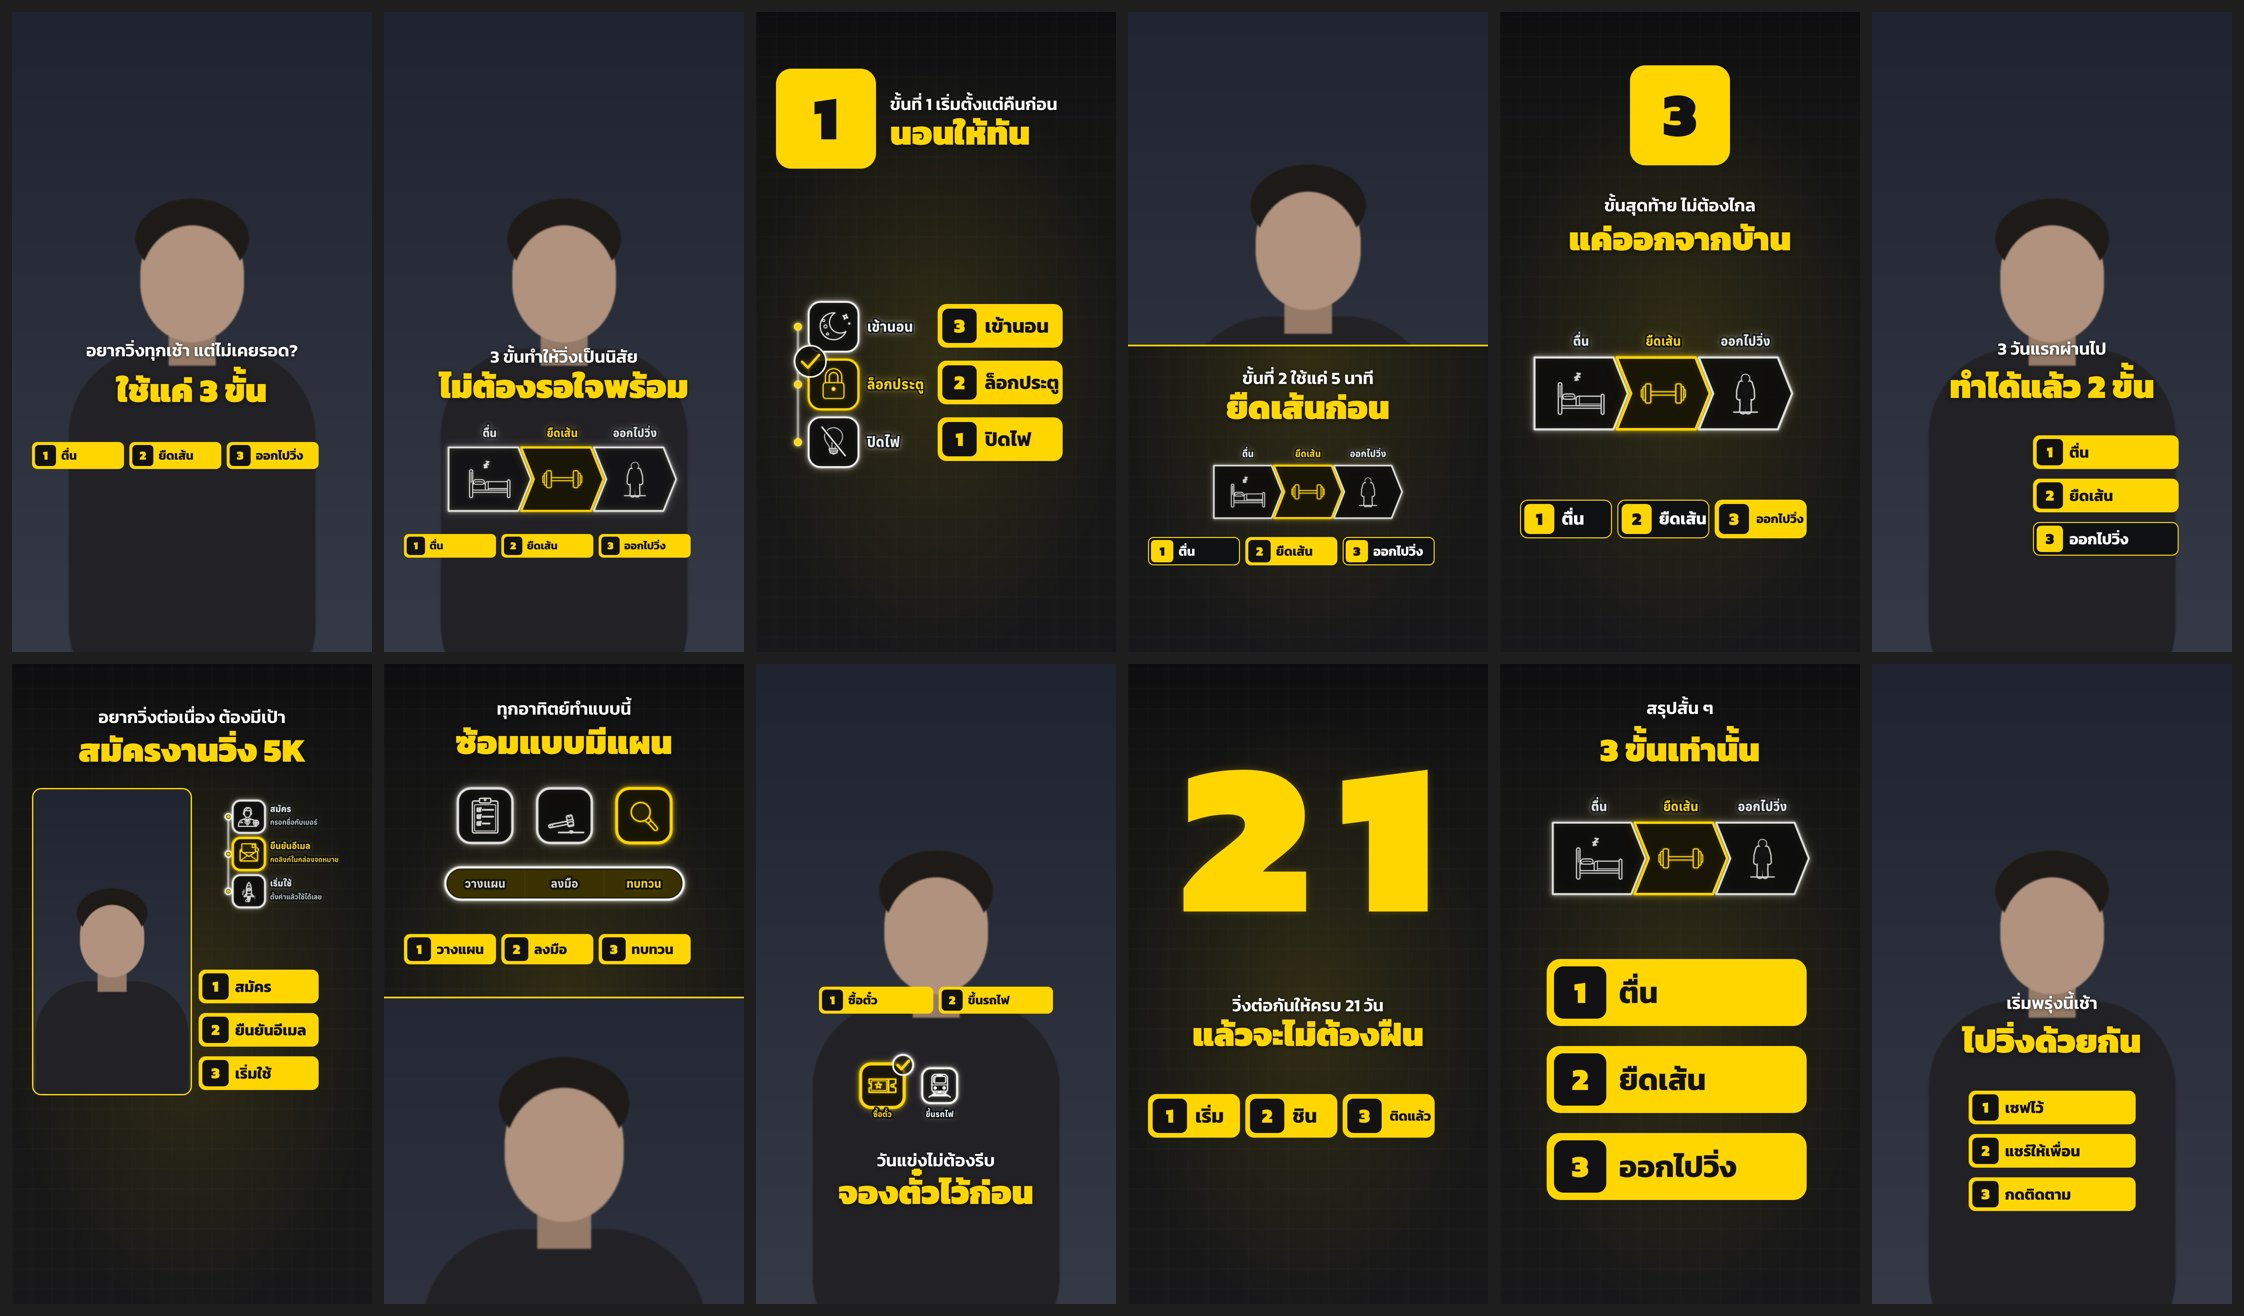
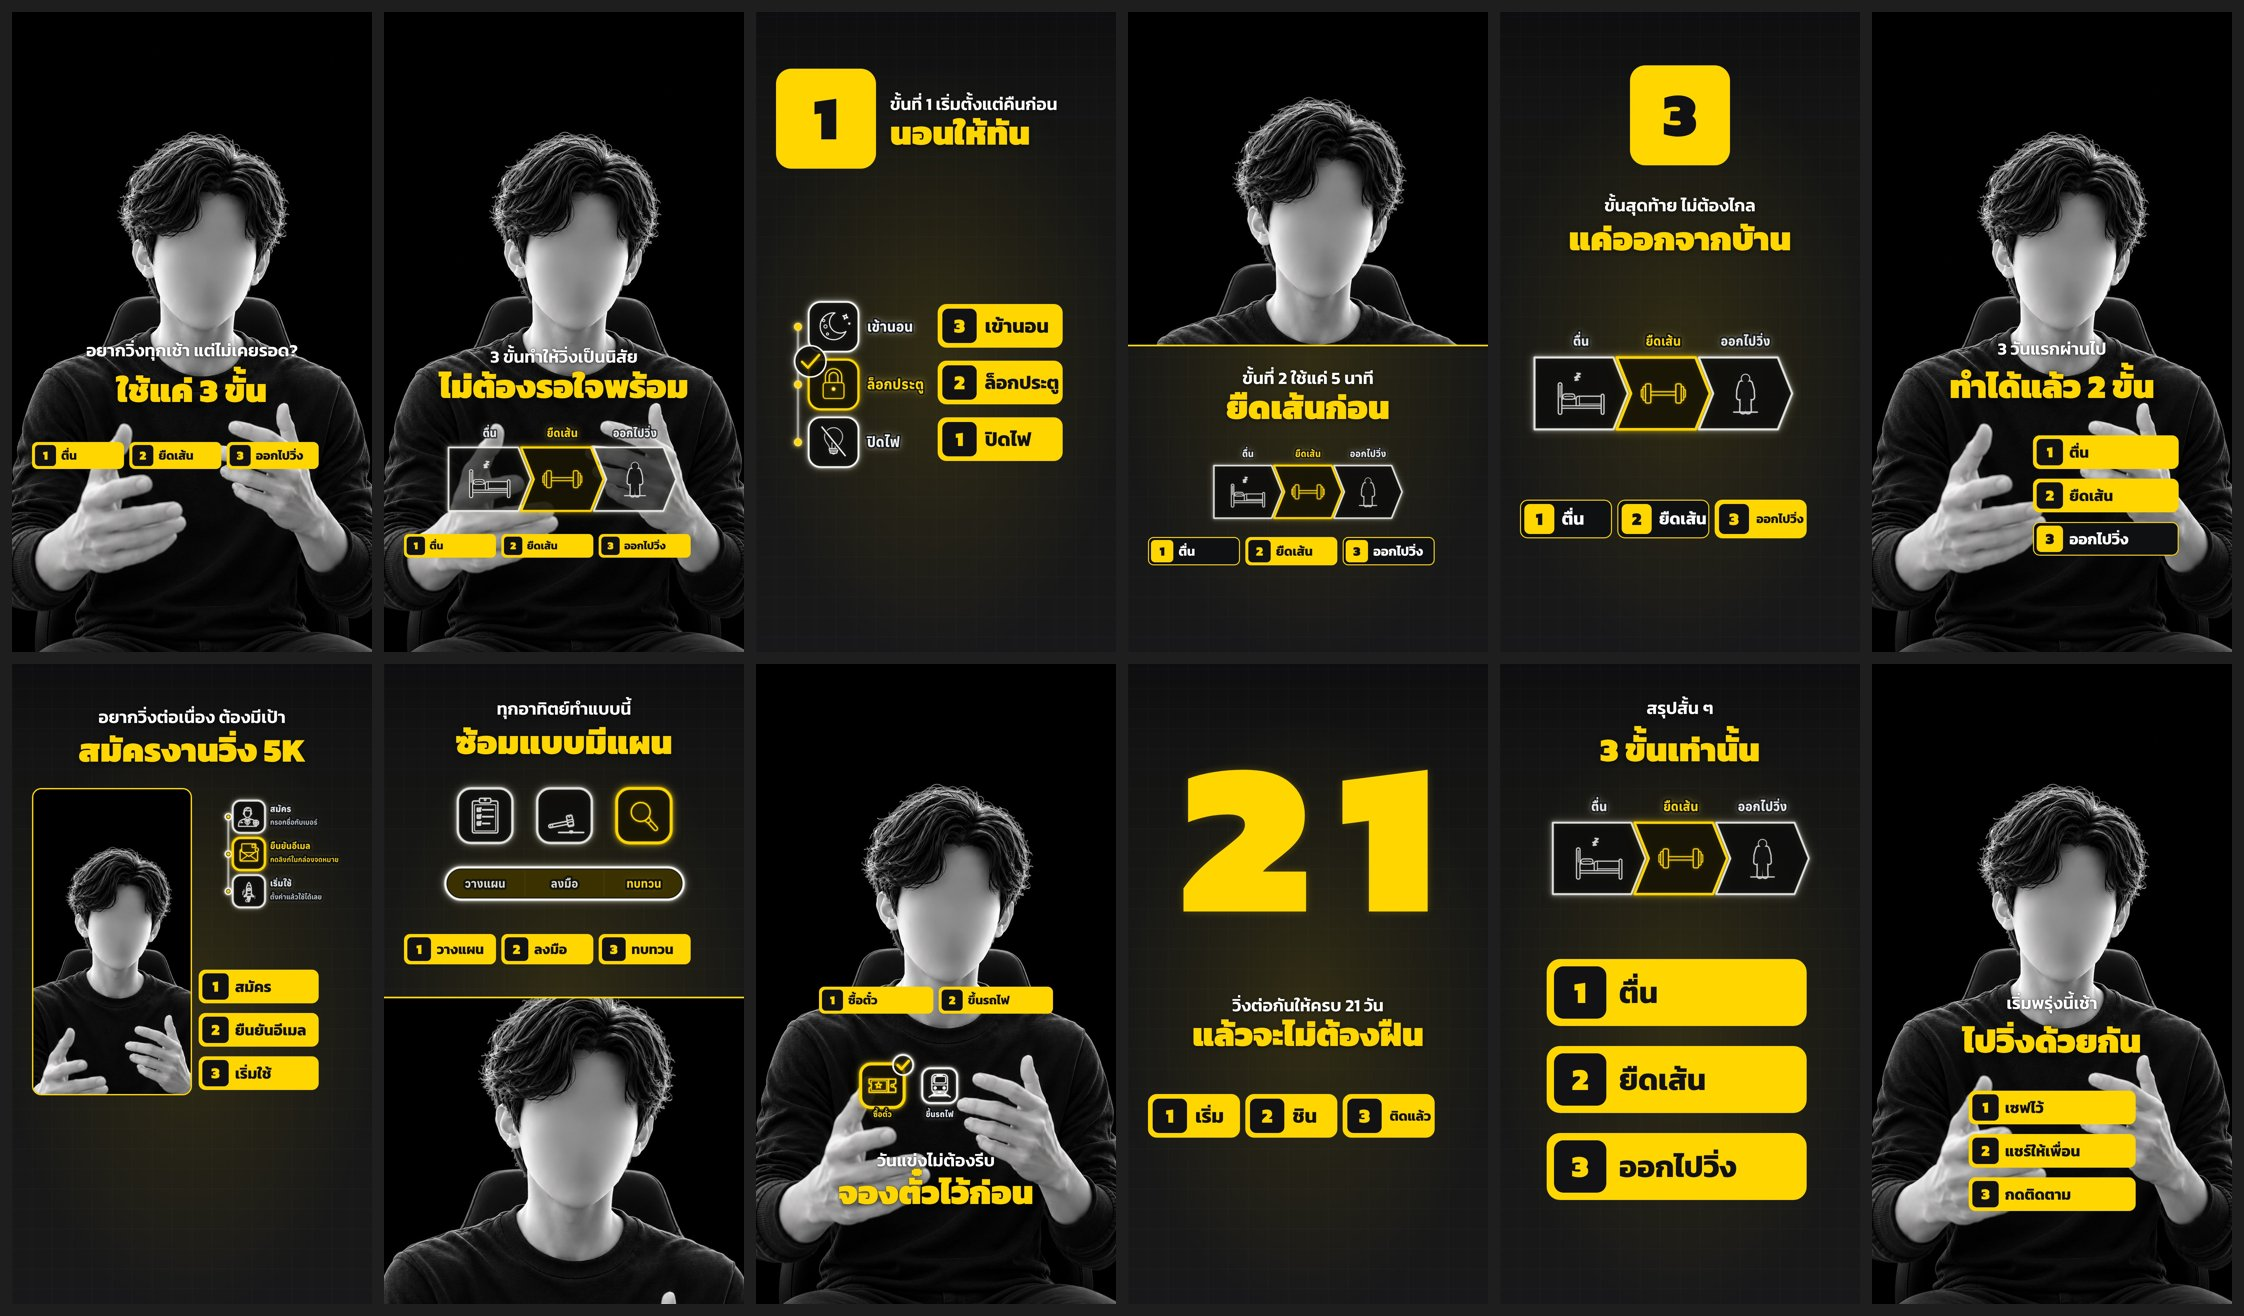
CutPack: Friend's stand-in speaker for stills kept in the repo; style 6 still redone with it
Claude-Session: https://claude.ai/code/session_014abtguGKwfyu8FNe2PJXwW

diff --git a/cutpack/DECISIONS.md b/cutpack/DECISIONS.md
@@ -301,6 +301,7 @@
         - **Friend 2026-11-18 ดูภาพเทียบและคลิปจริง: "ดราฟแรกผ่าน เปิด PR และทำ handoff ด้วยครับ"** → สไตล์ 5 **ม่วงคลื่นเสียง (Violet Wave, `violet`)** ดราฟแรกผ่าน แบบที่ส่งไป (ป้ายเล็กบนการ์ดเอาออก · จอ 03 06 11 ภาพนิ่งเท่านั้น) · เปิด PR ของสาขา `ccr-e62fe584-589vj4` เข้าสาขาหลัก `ccr-045810ba-gj4imq` (แทนข้อ "ยังไม่เปิด PR" 2026-11-18) · เขียน HANDOFF ส่งต่อ session ถัดไป · เปิดแล้ว: PR #33
       - **สไตล์ที่ 6 (Friend 2026-11-18 แชทใหม่ `claude/cutpack-style-6-yx4gju` ส่งภาพใหญ่ 1080 × 1920 ครบ 12 ช็อตโทนดำ-เหลือง: พื้นดำเทามีตารางจางและแสงเหลืองกลางจอ · คำนำขาวหนา คำเด่นเหลืองตัวหนามาก · แถบขั้นตอนเหลือง "1 ตื่น 2 ยืดเส้น 3 ออกไปวิ่ง" (ช่องเลขดำ) แบบเรียงแถวและแบบเรียงลง · ช่องเหลืองเลขใหญ่ "1" "3" · ตัวเลขยักษ์ "21" · จอแบ่งครึ่งมีเส้นเหลืองคั่น · การ์ดคนพูดขอบเหลือง · ภาพ glow-line เส้นขาว ชิ้นที่ติดไฟเป็นเหลือง): "พยายามทำให้เหมือนต้นแบบที่สุดเท่าที่จะเป็นไปได้"** + ส่งคลิปทดสอบเดิมอีกครั้ง (ลิงก์ Drive `1hIaow6BMhMz5g8LoOSUWHFVvC6JoDfNH` + บทพร้อมเวลา 63 บรรทัด "00:00 เวลาลูกค้า" … "00:41 ให้ถูกจุด") → ทำดราฟแรก (ด่าน 4 ข้อ) · คลิปกับบทอยู่ใน scratchpad เท่านั้น (LESSONS 30)
         - **กฎที่ Friend ย้ำตอนเริ่มแชท (2026-11-18): "คุยภาษาไทยเท่านั้น" · "จดทุกคำตัดสินของผมพร้อมคำพูดลง DECISIONS" · "ป้ายเล็กตัวห่างบนการ์ดให้เอาออก คำในการ์ดใช้คำพูดจริง" · "ห้ามบังโซนปุ่มของ TikTok" · "จะแก้โค้ดกลางที่กระทบสไตล์ที่เสร็จแล้ว ต้องถามผมก่อน" · "ผ่านดราฟแรกแล้วต้องเขียนไฟล์สกิลละเอียด" · "ห้ามเปิด PR จนกว่าผมจะบอก" · "คลิปทดสอบไม่อยู่ใน repo ถ้าต้องใช้ให้ขอผม"** → ใช้กับสไตล์ 6 และสไตล์ต่อจากนี้ · แถบขั้นตอน "1 ตื่น" เป็นการ์ดที่มีคำ จึงใช้คำพูดจริง (ซับก้อนถัดไปของภาพ) ส่วนเลข 1 2 3 ในช่องดำเป็นลำดับ ไม่ใช่ป้ายเล็ก
+        - **ภาพคนพูดจำลองสำหรับภาพนิ่ง (Friend 2026-11-18 ส่งภาพคนขาวดำไม่มีหน้า 941 × 1672: "ใส่ภาพจำลองนี้ก็ได้ครับเก็บไว้ในลิโปก็ได้")** → เก็บที่ `library/styles/speaker_standin.jpg` (ย่อเป็น 1080 × 1920) · ภาพนิ่งทุกภาพที่เก็บใน repo ใช้ภาพนี้แทนเฟรมจากคลิปทดสอบ (LESSONS 30 · 65) · ทำ `library/styles/06_yellow_draft1.jpg` ใหม่ด้วยภาพนี้ (แทนหุ่นจำลองที่ Claude วาดเอง)
       - **ดราฟแรกก่อน แล้วค่อยเก็บรายละเอียด (Friend 2026-11-18 หลังได้คลิปเขียวมะนาว: "ผมคิดว่าผมจะเก็บอันนี้ไว้เป็นดราฟแรก แล้วทำสไตล์ต่อไปเลยพอครบทุกสไตล์ที่อยากทำแล้วก็ค่อยกลับมาแก้รายละเอียดเล็กๆน้อยๆของสไตล์นั้นๆ" · Claude เห็นด้วย และเสนอด่านขั้นต่ำ + จดรายการค้าง · Friend: "บันทึก 2 สไตล์ ที่ทำไว้แล้ว ไว้ด้วยนะครับเผื่อคุณลืมบันทึก ตั้งชื่อให้มันด้วย")** → ทะเบียนสไตล์ `style-rules/README.md`: ชื่อ สถานะ ภาพนิ่ง เอกสาร รายการค้างของแต่ละสไตล์ · ชื่อ: สไตล์ 1 **นีออนฟ้า (Neon Blue, `neon`)** ผ่าน · สไตล์ 2 **เขียวมะนาว (Lime Glass, `lime`)** ดราฟแรก · ภาพนิ่ง 12 ช็อตของเรา `library/styles/01_neon_draft1.jpg` `02_lime_draft1.jpg` · ด่านขั้นต่ำของดราฟแรก: ภาพนิ่ง 12 ช็อตเทียบรูป + ตัวตรวจผ่าน + คลิปจริงผ่านระบบ 1 รอบ (ใช้คลิปที่ Friend ส่งแล้วได้)
       - **ทดสอบเขียวมะนาวกับคลิปใหม่ (Friend 2026-11-18 ส่งลิงก์ Drive `1hIaow6BMhMz5g8LoOSUWHFVvC6JoDfNH` + บทพร้อมเวลา 90 วลี "00:00 เวลาลูกค้า" … "00:41 ให้ถูกจุด"): "พยายามทำให้เหมือนต้นแบบที่สุดเท่าที่จะเป็นไปได้"** → รันคลิปผ่านระบบเป็นสไตล์เขียวมะนาว (โมเดลเดียวกับในระบบ: Haiku ตัดซับ · Sonnet low วางภาพ · Haiku รอบแก้) ให้ออกมาใกล้รูปต้นแบบที่สุด ภายใต้กฎเดิม · คลิปและบทอยู่ใน scratchpad เท่านั้น
       - **ภาพใช้ชุดแม่แบบเป็นหลักทุกสไตล์ (Friend 2026-11-18: "motion graphic ผมอยากให้ใช้ template ชุดฐานเป็นหลักเลยนะครับ ไม่ว่าจะสไตล์ไหนก็ตาม ส่วนหมวดไหนที่ยังไม่มี template ชุดฐานก็ใช้อันเดิมไปก่อน")** → แทนข้อ "ทั้งสองชุด ระบบเลือกสลับกันไป" (2026-11-12): หมวดที่มีชุดแม่แบบ (ตอนนี้ B01–B12) ใช้ชุดแม่แบบอย่างเดียว · หมวดที่ยังไม่มี (B13–B21) ใช้ชุดหมวดไปก่อน · เมื่อชุดแม่แบบหมวดใหม่เสร็จ (เช่น B13T) ระบบใช้แทนเองทันที (หลังรัน `glow/index.js` + `glow/shapes.js`)

diff --git a/cutpack/LESSONS.md b/cutpack/LESSONS.md
@@ -23,7 +23,7 @@ Friend สั่งไว้ (2026-11-08): "จดข้อผิดพลาด
 6.1 แก้โค้ดกลางที่กระทบสไตล์ที่เสร็จแล้ว → ถาม Friend ก่อนลงมือ · ค่าเริ่มต้นเปิดเฉพาะสไตล์ใหม่ · เทียบภาพนิ่งสไตล์เก่าก่อน/หลังทีละพิกเซล (ข้อ 63)
 7. งานเบื้องหลัง: ดู log ภายใน 1 นาทีหลังสั่ง (ข้อ 11)
 8. ก่อนบอกว่า "บันทึกแล้ว": ตรวจว่า `HEAD` ตรงกับ `origin` (ข้อ 22)
-8.1 ภาพที่ commit เข้า repo ต้องไม่มีหน้าคน เฟรมคลิป หรือรูปของ Friend: ภาพนิ่งเก็บใน library ใช้เฟรมหุ่นจำลอง (ข้อ 30 · 65)
+8.1 ภาพที่ commit เข้า repo ต้องไม่มีเฟรมจากคลิปหรือรูปของ Friend: ภาพนิ่งเก็บใน library ใช้ `library/styles/speaker_standin.jpg` (ข้อ 30 · 65)
 
 ---
 
@@ -206,7 +206,7 @@ Friend สั่งไว้ (2026-11-08): "จดข้อผิดพลาด
 **65. ภาพนิ่งที่จะเก็บใน repo เกือบใช้เฟรมจากคลิปของ Friend** (แชท `claude/cutpack-style-6-yx4gju`, 2026-11-18, สไตล์ขั้นตอนเหลือง จับได้ก่อน commit)
 - พลาด: ทำ `library/styles/06_yellow_draft1.jpg` จากภาพนิ่งที่ใช้เฟรม `s00108.jpg` ของคลิปทดสอบ (หน้าคนในคลิปของ Friend) ตามขั้นตอนใน `common.md` ข้อ 8 ซึ่งบอกให้ใช้เฟรมนี้ทำภาพนิ่ง
 - ต้นเหตุ: ขั้นตอนไม่ได้แยก "ภาพนิ่งที่ใช้ตรวจ" (อยู่ใน scratchpad ใช้เฟรมจริงได้) กับ "ภาพนิ่งที่เก็บใน repo" (ห้ามมีอะไรจากคลิปหรือรูปของ Friend: LESSONS 30)
-- กฎ: ภาพที่จะ commit ทำใหม่บนเฟรมหุ่นจำลอง (ห้องมืด หัวกับตัวสีเรียบ ไม่มีหน้า วาดด้วย PIL ใน 10 บรรทัด สูตรใน `style-rules/common.md` ข้อ 8) · ก่อน commit ภาพใด ๆ ดูด้วยตาว่าไม่มีหน้าคน คลิป หรือรูปของ Friend
+- กฎ: ภาพที่จะ commit ทำใหม่บนภาพคนพูดจำลอง `library/styles/speaker_standin.jpg` (Friend 2026-11-18 ส่งให้: "ใส่ภาพจำลองนี้ก็ได้ครับเก็บไว้ในลิโปก็ได้" · คนขาวดำไม่มีหน้า 1080 × 1920) · ก่อน commit ภาพใด ๆ ดูด้วยตาว่าไม่มีหน้าคน คลิป หรือรูปของ Friend
 
 **31. เอาของจากระบบเดิมมาให้ดู โดยไม่บอกก่อนว่าระบบเลโก้ยังไม่มี** (แชท `ccr-a3217a00-7f7wp0`, 2026-11-08)
 - พลาด: Friend ขอดู B14 Claude ทำหน้าคลิป B14 ของ editorial เดิมให้ดู Friend ถามกลับว่า "ตอนนี้เราเปลี่ยนมาใช้ระบบเลโก้แล้วไม่ใช่หรอ"

diff --git a/cutpack/style-rules/yellow.md b/cutpack/style-rules/yellow.md
@@ -5,7 +5,7 @@
 
 ## 0. ที่มาและสถานะ
 - สไตล์ที่ 6 จาก 12 สไตล์ใหม่ ลอกจากภาพใหญ่ 1080 × 1920 ครบ 12 ช็อตโทนดำ-เหลืองที่ Friend ส่ง (2026-11-18: "พยายามทำให้เหมือนต้นแบบที่สุดเท่าที่จะเป็นไปได้") · วัดตำแหน่ง ขนาด สี ฟอนต์ จากภาพด้วยโค้ดทุกค่า
-- สถานะ: **ดราฟแรก** (ส่งภาพเทียบ + คลิปจริงแล้ว รอ Friend ดู) · ภาพนิ่ง `library/styles/06_yellow_draft1.jpg` (ใช้หุ่นจำลองแทนคนพูด ไม่ใช่ภาพจากคลิปของ Friend: LESSONS 30)
+- สถานะ: **ดราฟแรก** (ส่งภาพเทียบ + คลิปจริงแล้ว รอ Friend ดู) · ภาพนิ่ง `library/styles/06_yellow_draft1.jpg` (คนพูดคือภาพจำลอง `library/styles/speaker_standin.jpg` ที่ Friend ให้ ไม่ใช่เฟรมจากคลิปทดสอบ: LESSONS 30 · 65)
 - ต่างจากรูปของ Friend:
   - **แถบขั้นตอน (การ์ดเหลือง "1 ตื่น") คือคำพูดจริง** (Friend: "ป้ายเล็กตัวห่างบนการ์ดให้เอาออก คำในการ์ดใช้คำพูดจริง"): ซับก้อนแรกของภาพ = คำนำ + คำเด่น · ซับก้อนถัดไปทีละก้อน = แถบที่ 1 2 3 ขึ้นตอนพูด · เลขในช่องดำคือลำดับของแถบ ไม่ใช่ป้ายเล็ก · รูปนี้ไม่มีป้ายเล็กตัวห่าง
   - ช่องเลขใหญ่ ("1" "3") และตัวเลขยักษ์ ("21") แสดง **ตัวเลขที่คนพูดพูดจริง** เท่านั้น (ไม่มีตัวเลข = ไม่ใช้จอนั้น)
